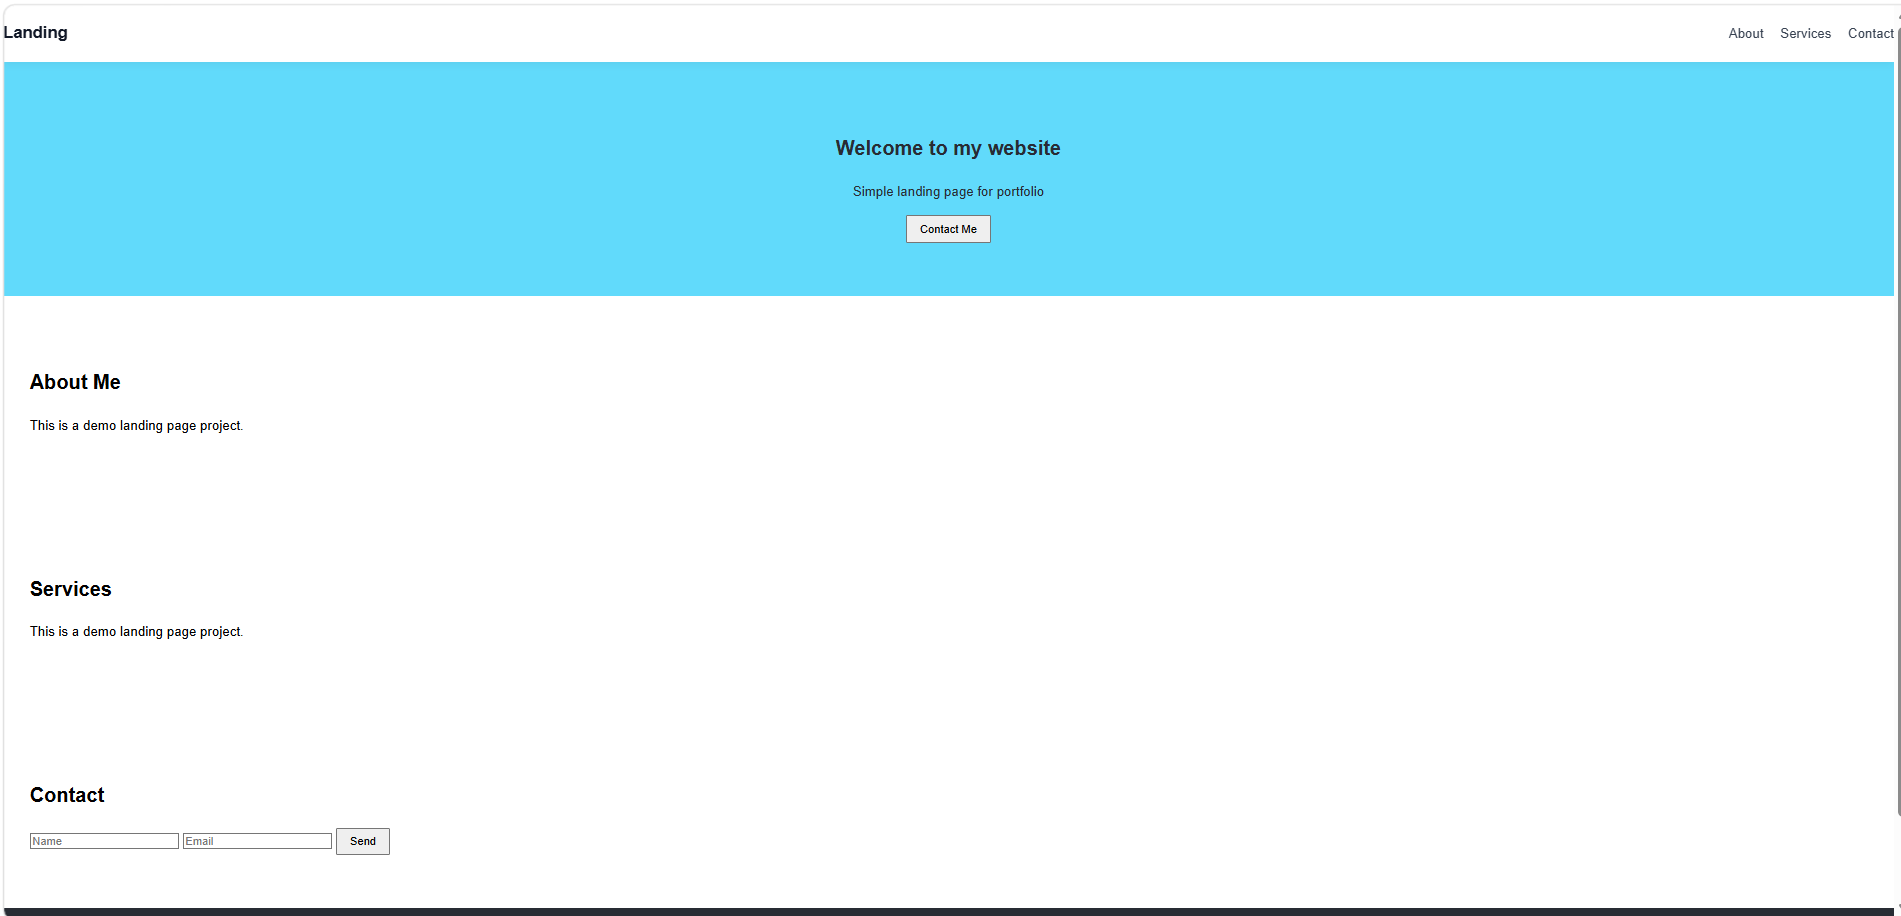
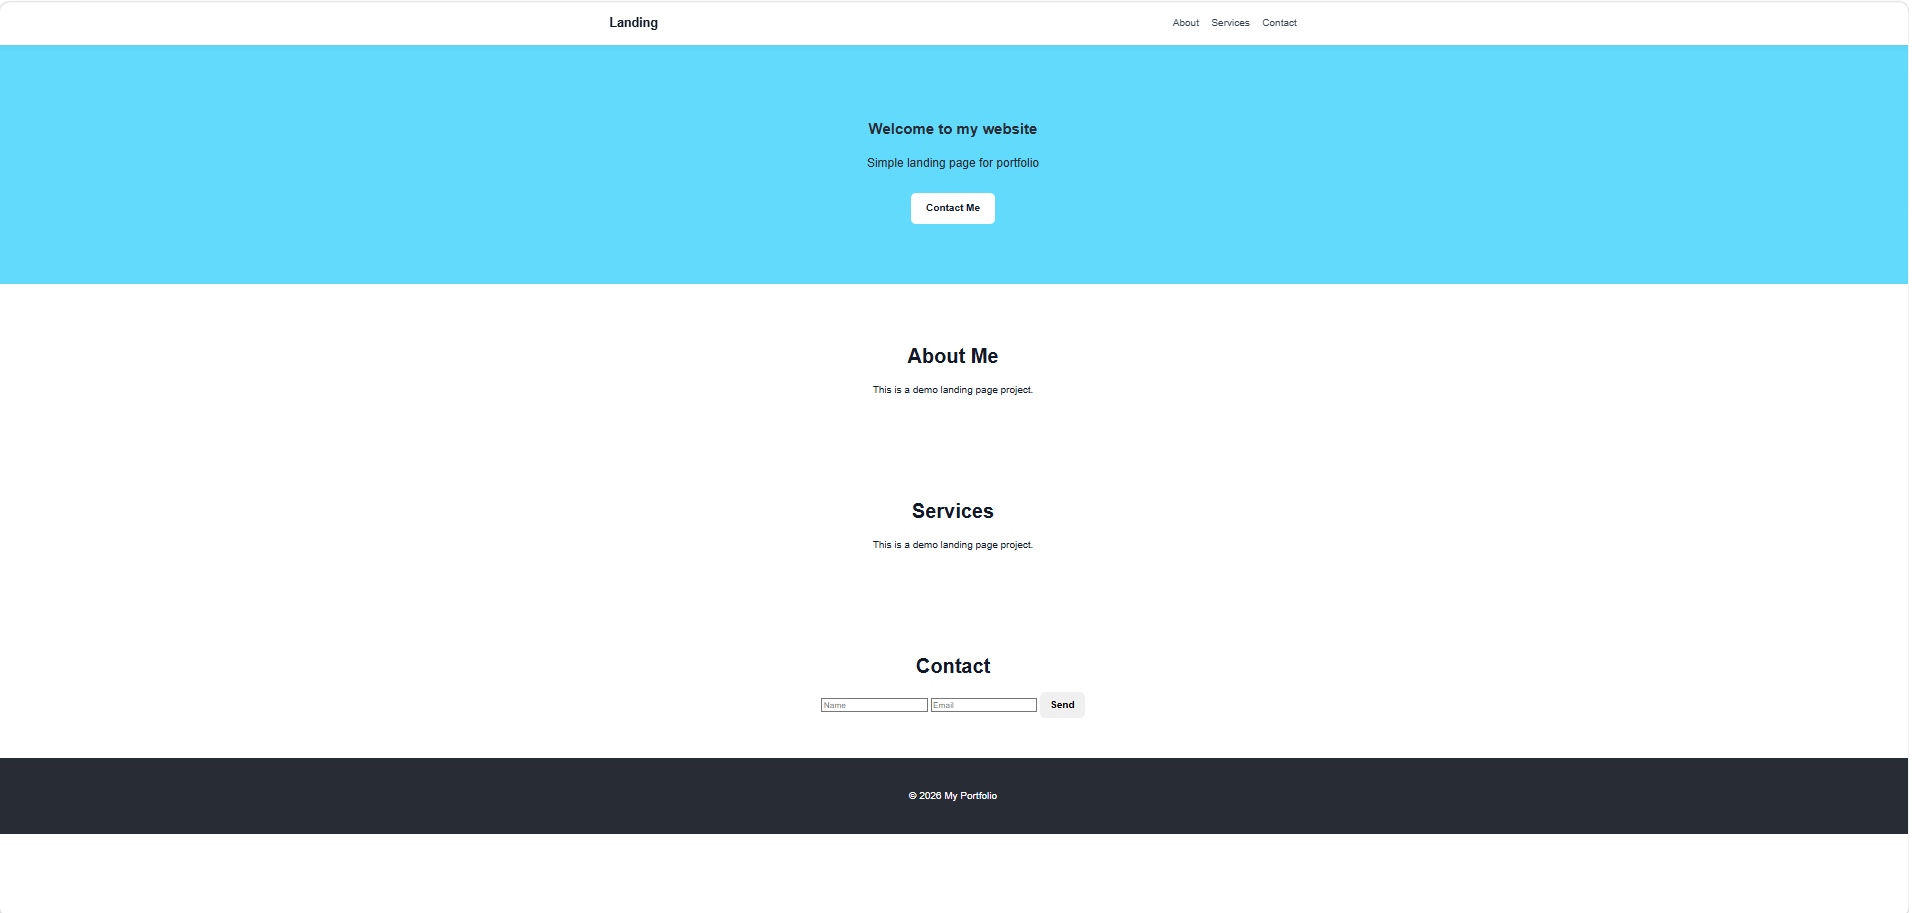
docs: update README and screenshot for landing page v1.2

diff --git a/README.md b/README.md
@@ -31,3 +31,13 @@ Simple landing page project for portfolio purposes.
 - Added reveal-on-scroll section animations
 - Added back to top button
 - Improved responsive navigation and mobile UI
+
+### V1.2
+
+- Iproved semantic HTML structure with `<main>` and `h1`
+- Added reusable `.container` layout for better content alignment
+- Enhanced hero section and CTA button styling
+- Styled contact form with improved spacing and accessibility
+- Added better focus states for keybord navigation
+- Optimized back-to-top button sizing and transitions
+- Improved reveal animation performance with `IntersectionObserver`
